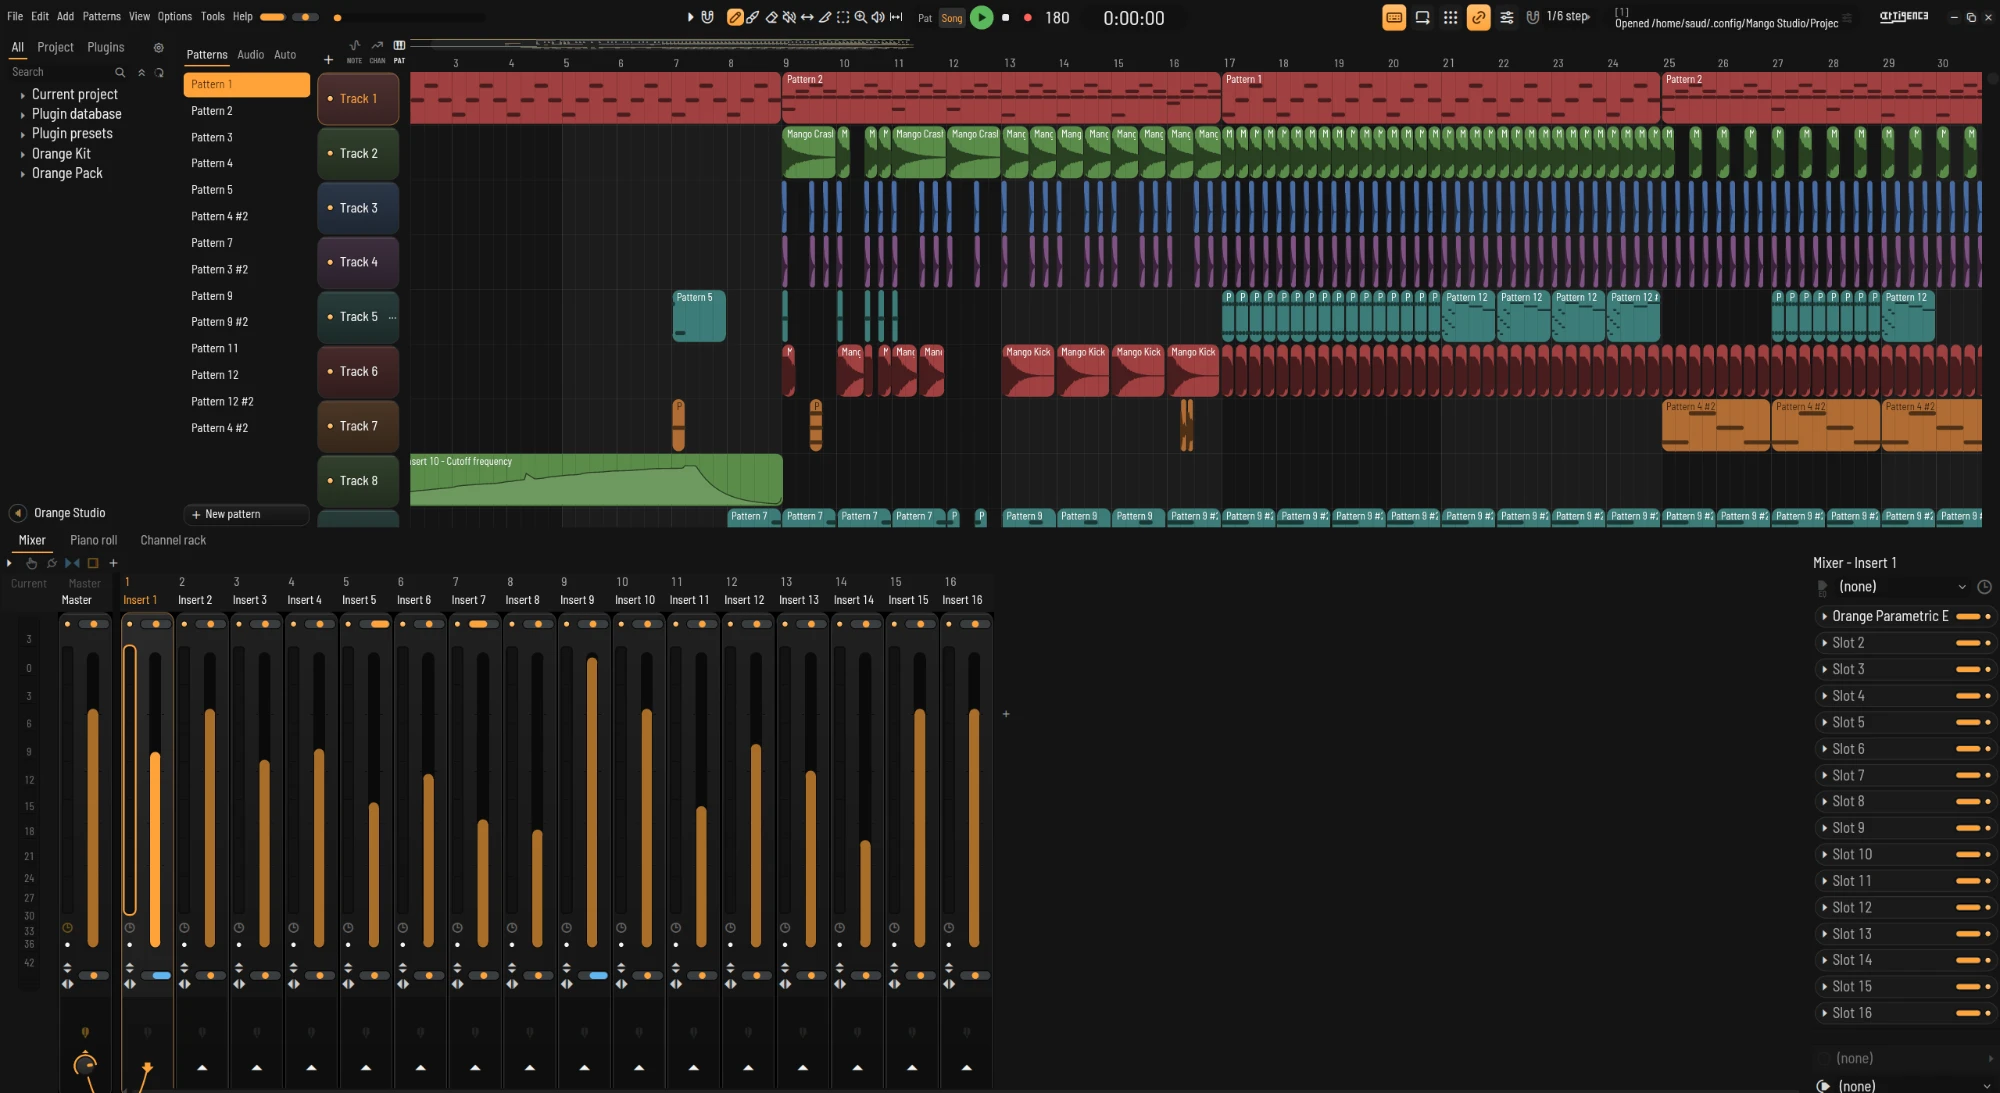
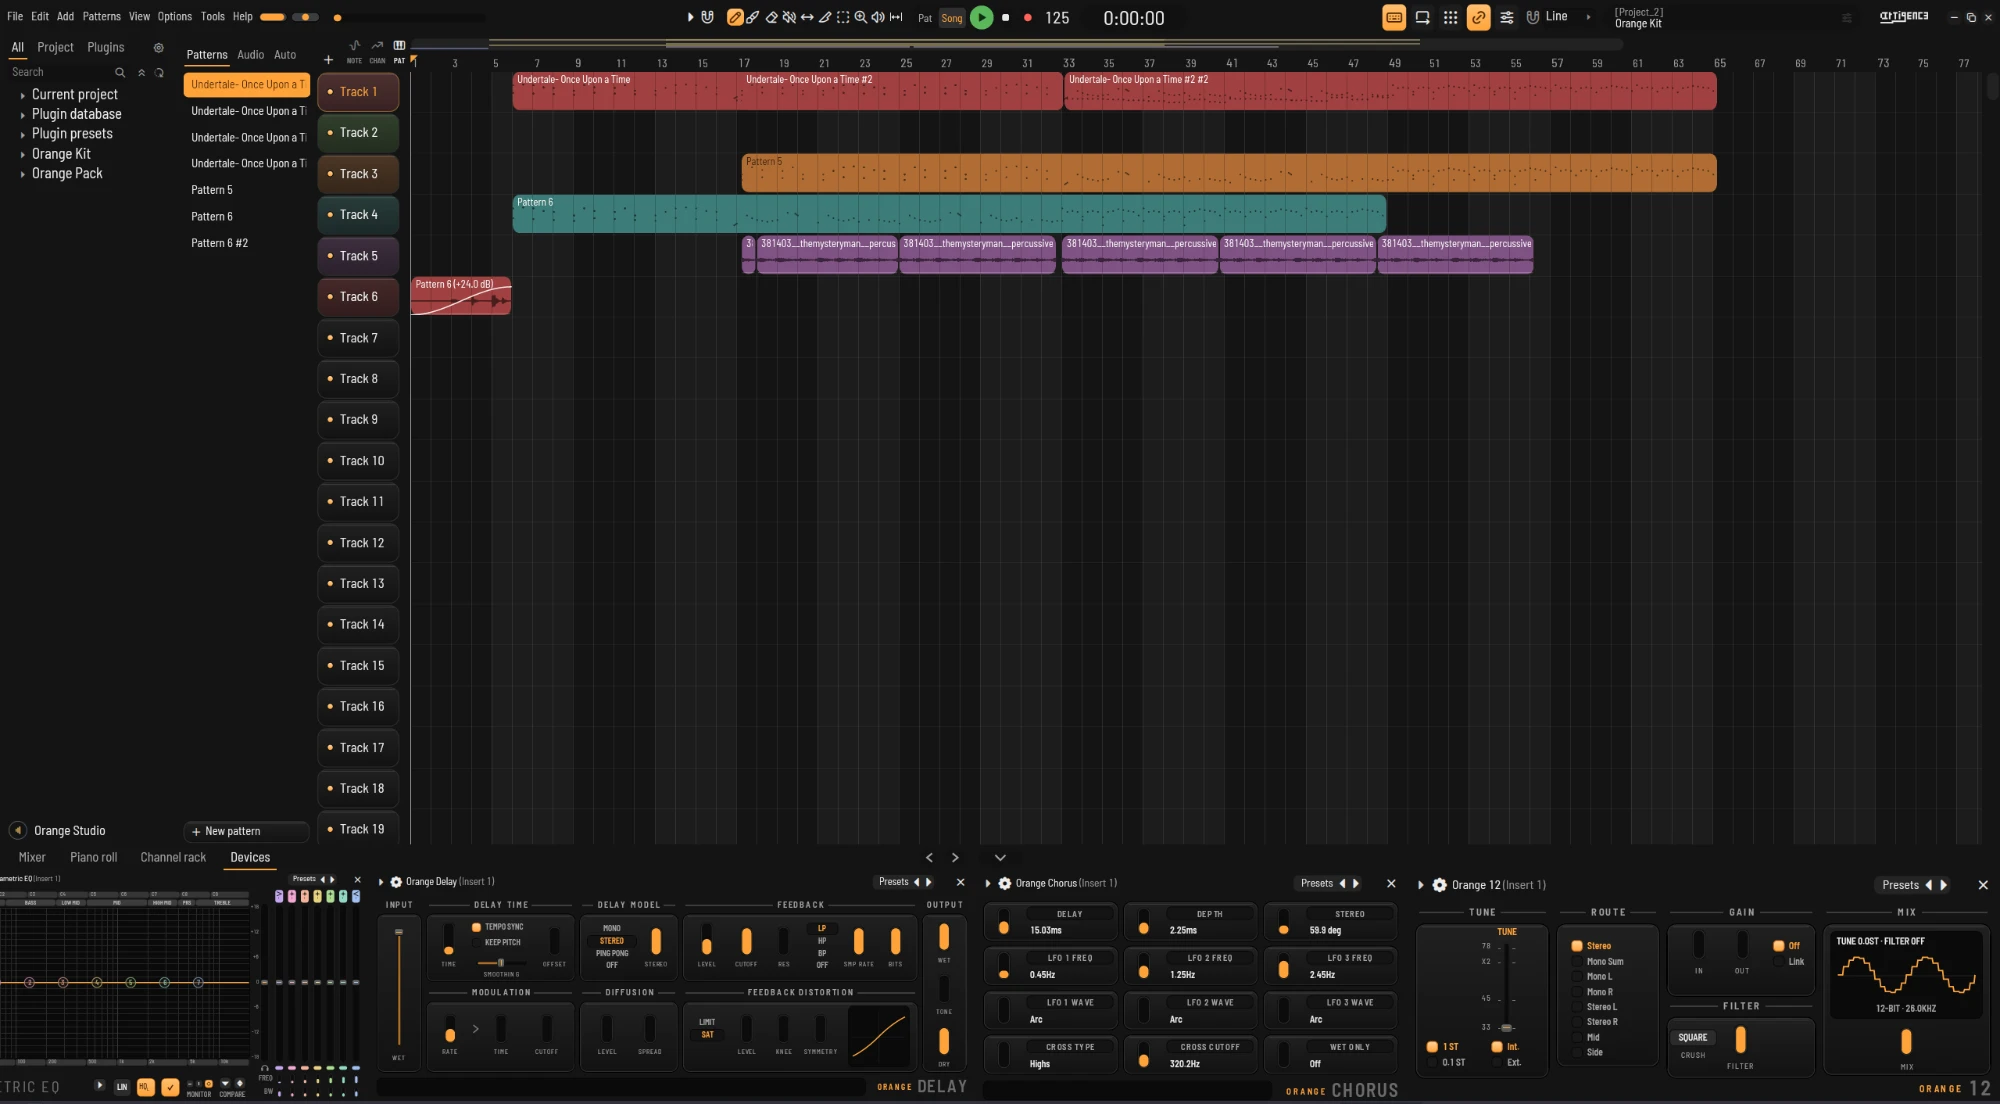
Orange Studio 1.3.0: new README screenshot

diff --git a/README.md b/README.md
@@ -13,7 +13,7 @@
   <a href="LICENSE"><img alt="License: GPL-3.0-or-later" src="https://img.shields.io/badge/license-GPL--3.0--or--later-blue?style=flat-square"></a>
   <img alt="Rust 2024 edition" src="https://img.shields.io/badge/rust-2024_edition-e57324?style=flat-square&logo=rust&logoColor=white">
   <img alt="Platform: Windows | Linux | macOS" src="https://img.shields.io/badge/platform-Windows_%7C_Linux_%7C_macOS-0078d4?style=flat-square">
-  <a href="https://github.com/Artig3nce/Orange-Studio/releases"><img alt="Release: 1.2.0" src="https://img.shields.io/badge/release-1.2.0-ffb02e?style=flat-square"></a>
+  <a href="https://github.com/Artig3nce/Orange-Studio/releases"><img alt="Release: 1.3.0" src="https://img.shields.io/badge/release-1.3.0-ffb02e?style=flat-square"></a>
   <a href="https://discord.gg/yC2uCuGs3M"><img alt="Lemon Studio Discord" src="https://img.shields.io/badge/lemon_studio-discord-5865f2?style=flat-square&logo=discord&logoColor=white"></a>
 </p>
 
@@ -31,7 +31,7 @@
 
 <br>
 
-<img alt="Orange Studio with the playlist and mixer open on a populated project" src="docs/assets/screenshot-main.png" width="900">
+<img alt="Orange Studio with a populated project: the playlist above and the Devices tab below, three plugins side by side as cards" src="docs/assets/screenshot-main.png" width="900">
 
 </div>
 
